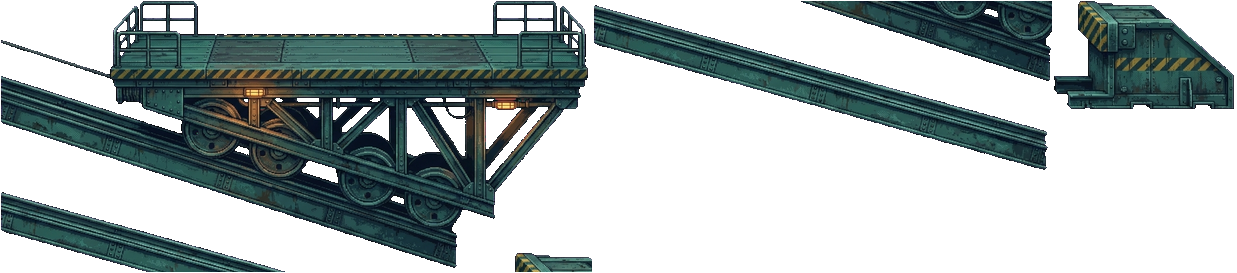
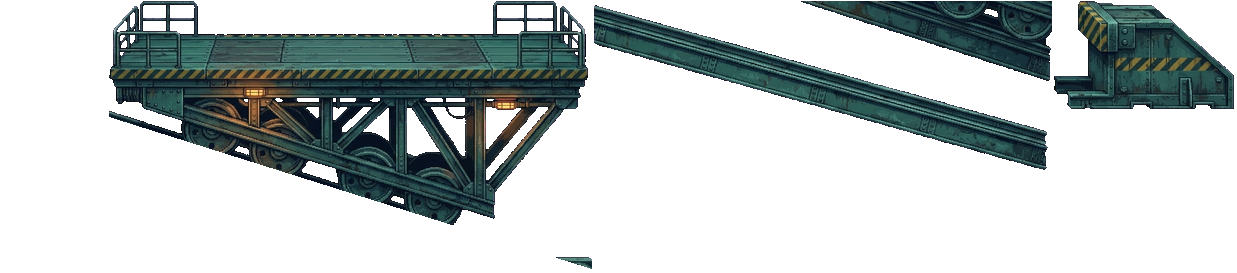
Ур.9 лаборатория: тележка наклонного лифта стоит на рельсе (свой рельс и трос вырезаны), рельс от упора до упора на опорах; фоны зон сменяются шторкой без двоения; станина колеса; колонна у шахты; камера по опоре, меньше пустоты под полом; второй рычаг в кадре; лазеры зелёные (v499)

diff --git a/js/level9labmap.js b/js/level9labmap.js
@@ -72,7 +72,7 @@
         { x: 16500, y: DY - 270, line: 'Реактор, Валера! Сердце моей империи. Дёрнете рычаги — и дверь откроется. Если доживёте.' }],
       covers: [{ x: 1300, y: 330, kind: 'crates' }, { x: 1610, y: 330, kind: 'barrier' }, { x: 3562, y: 330, kind: 'crates' }, { x: 4130, y: 330, kind: 'barrier' }, { x: 5640, y: LIFT_TOP, kind: 'crates' },
         { x: 6910, y: 330, kind: 'crates' }, { x: 8300, y: 330, kind: 'barrier' }, { x: 11000, y: 330, kind: 'crates' }, { x: 11720, y: 330, kind: 'barrier' }, { x: 15960, y: DY, kind: 'crates' }, { x: 17280, y: DY, kind: 'barrier' }],
-      props: [{ x: 820, y: 330, kind: 'console' }, { x: 1600, y: 330, kind: 'tube' }, { x: 2000, y: 330, kind: 'waste' }, { x: 3760, y: 330, kind: 'gas' }, { x: 3950, y: 330, kind: 'tube' }, { x: 5200, y: LIFT_TOP, kind: 'console' }, { x: 5950, y: LIFT_TOP, kind: 'waste' },
+      props: [{ x: 820, y: 330, kind: 'console' }, { x: 1470, y: 330, kind: 'console' }, { x: 2000, y: 330, kind: 'waste' }, { x: 3760, y: 330, kind: 'gas' }, { x: 3950, y: 330, kind: 'waste' }, { x: 5200, y: LIFT_TOP, kind: 'console' }, { x: 5950, y: LIFT_TOP, kind: 'waste' },
         { x: 6930, y: LIFT_TOP, kind: 'gas' }, { x: 7860, y: 330, kind: 'gas' }, { x: 10700, y: 330, kind: 'waste' }, { x: 16580, y: DY, kind: 'console' }, { x: 17700, y: DY, kind: 'gas' }],
       riders: [], acid: [], drops: [],
       traps: {     // ловушки (level9traps.js) — по зонам: в каждой своё
@@ -234,19 +234,21 @@
       c.fillStyle = 'rgba(2,6,10,0.22)'; c.fillRect(0, 0, 640, 360);
       // фоны зон: шахта с ярусами у подъёмника, наклонный тоннель, зал реактора — плавно сменяют общий план; по вертикали свой параллакс
       const ramp = (v, a0, a1) => clamp((v - a0) / (a1 - a0), 0, 1), mid = cx + 320;
-      const wA = ramp(mid, 4300, 4700) * (1 - ramp(mid, 6700, 7100)), wB = ramp(mid, 12200, 12700) * (1 - ramp(mid, 15500, 15900)), wC = ramp(mid, 15500, 15900);
-      const zoneBg = (n, wgt, kx, yy) => { const im = L9.img[n], d = PX()[n]; if (!im || !d || wgt <= 0) return; const h = d[1], w = d[0], y = clamp(yy, 360 - h, 0);
-        c.globalAlpha = wgt; for (let x = -((cx * kx % w) + w) % w; x < 640; x += w) c.drawImage(im, Math.floor(x), Math.round(y), Math.ceil(w) + 1, h); c.globalAlpha = 1; };
-      zoneBg('bgA', wA, 0.18, -(cy + 420) * 0.5); zoneBg('bgB', wB, 0.16, -(cy - 100) * 0.2); zoneBg('bgC', wC, 0.14, -(cy - 700) * 0.3);
+      const aI = ramp(mid, 4300, 4700), aO = ramp(mid, 6700, 7100), bI = ramp(mid, 12200, 12700), bO = ramp(mid, 15500, 15900), cI = bO;
+      const wA = aI * (1 - aO), wB = bI * (1 - bO), wC = cI;
+      // фон зоны не просвечивает сквозь соседний, а сменяет его «шторкой»: видимая полоса экрана от 640*(1-вход) до 640*(1-выход), край мягкий (40 px)
+      const zoneBg = (n, wIn, wOut, kx, yy) => { const im = L9.img[n], d = PX()[n]; if (!im || !d || wIn <= wOut) return; const h = d[1], w = d[0], y = clamp(yy, 360 - h, 0);
+        const x0 = 640 * (1 - wIn), x1 = 640 * (1 - wOut), draw = () => { for (let x = -((cx * kx % w) + w) % w; x < 640; x += w) c.drawImage(im, Math.floor(x), Math.round(y), Math.ceil(w) + 1, h); };
+        for (let i = 0; i < 4; i++) { const e = 10 * (4 - i), a = x0 > 0 ? x0 - e : 0, b = x1 < 640 ? x1 + e : 640; if (i < 3 && a <= 0 && b >= 640) continue;
+          c.save(); c.globalAlpha = i < 3 ? 0.25 : 1; c.beginPath(); c.rect(i < 3 ? a : x0, 0, (i < 3 ? b - a : x1 - x0), 360); c.clip(); draw(); c.restore(); } };
+      zoneBg('bgA', aI, aO, 0.18, -(cy + 420) * 0.5); zoneBg('bgB', bI, bO, 0.16, -(cy - 100) * 0.2); zoneBg('bgC', cI, 0, 0.14, -(cy - 700) * 0.3);
       if (wB > 0) {     // наклонный тоннель: средний план — арки крепи вдоль спуска, сдвигаются медленнее игрового плана (объём)
-        const f = 0.6, [aw, ah] = L9.size('part9', 'arch'), ak = 2.2; c.globalAlpha = wB * 0.85;
+        const f = 0.6, [aw, ah] = L9.size('part9', 'arch'), ak = 2.2; c.save(); c.beginPath(); c.rect(640 * (1 - bI), 0, 640 * (bI - bO), 360); c.clip();
         for (let ax = 12000; ax < 16200; ax += 420) { const ay = 330 + (ax - 12440) * 0.3 + 120, sx = (ax - (cx + 320)) * f + 320, sy = (ay - (cy + 180)) * f + 180; if (sx < -aw * ak || sx > 640 + aw * ak) continue; S(c, 'part9', 'arch', sx, sy - ah * ak / 2, ak); }
-        c.globalAlpha = 1; c.fillStyle = 'rgba(2,6,10,' + 0.3 * wB + ')'; c.fillRect(0, 0, 640, 360);
+        c.restore(); c.fillStyle = 'rgba(2,6,10,' + 0.3 * wB + ')'; c.fillRect(0, 0, 640, 360);
       }
       if (wA + wB + wC > 0) { c.fillStyle = 'rgba(2,6,10,' + (0.18 * Math.max(wA, wB, wC)) + ')'; c.fillRect(0, 0, 640, 360); }
-      c.globalAlpha = 1 - 0.85 * Math.max(wB, wC);
-      layer(c, 'px3', 215, 0.6, cx, 300 + (fy - 260) * 0.62);
-      c.globalAlpha = 1;
+      if (bI < 1) { c.save(); c.beginPath(); c.rect(0, 0, 640 * (1 - bI), 360); c.clip(); layer(c, 'px3', 215, 0.6, cx, 300 + (fy - 260) * 0.62); c.restore(); }     // машины общего плана уходят той же шторкой, что входит тоннель
       if (cx > 3500 && cy < -60) { c.globalAlpha = clamp((cx - 3500) / 600, 0, 1) * clamp((-cy - 60) / 220, 0, 1); layer(c, 'px3', 215, 0.6, cx + 300, 300 + (fy - 500 - 260) * 0.62, true); c.globalAlpha = 1; }     // у подъёмника второй ряд машин на уровне верхнего этажа: проявляется плавно, без скачка
       c.fillStyle = 'rgba(2,6,10,0.12)'; c.fillRect(0, 0, 640, 360);
     };
@@ -337,7 +339,8 @@
     const LK = 1.76, strip = (c, sh, fr, x, y0, y1, k) => { const h = L9.size(sh, fr)[1] * k; if (y1 > y0) S(c, sh, fr, x, (y0 + y1) / 2, k, { sy: (y1 - y0) / h }); };
     M.drawShaft = (c, L) => {
       const cxl = L.x + L.w / 2, wTop = LIFT_TOP - 235, [, wh] = L9.size('lift9', 'winch'), wb = wTop + wh * LK, carTop = L.y - L9D.lift9.carDeck * 0.5 * LK;
-      strip(c, 'lift9', 'post', L.x + 21, wb - 6, 410, LK); strip(c, 'lift9', 'post', L.x + L.w - 14, wb - 6, 410, LK);
+      strip(c, 'lift9', 'post', L.x + 21, wb - 6, 338, LK); strip(c, 'lift9', 'post', L.x + L.w - 14, wb - 6, 338, LK);     // направляющие стоят на полу
+      L9.LAB.drawColumn(c, 5232, LIFT_TOP - 250, 338, 1.1);     // торец шахты: колонна от потолка до пола там, где кончается нижний ярус
       strip(c, 'lift9', 'cable', cxl + 3, wb - 4, carTop + 4, LK);     // тросы — точно над креплениями кабины (у кабины и лебёдки они на 3 px правее центра)
       S(c, 'lift9', 'winch', cxl, wTop + wh * LK / 2, LK);
     };

diff --git a/index.html b/index.html
@@ -45,58 +45,58 @@
   <div class="tb" id="bP" data-a="pause">II</div>
   <div class="tb" id="bE" data-a="start">OK</div>
 </div>
-<script src="js/webp_list.js?v=496"></script>
-<script src="js/engine.js?v=496"></script>
-<script src="js/sprites_data.js?v=496"></script>
-<script src="js/sprites.js?v=496"></script>
-<script src="js/art.js?v=496"></script>
-<script src="js/game.js?v=496"></script>
-<script src="js/cutscene.js?v=496"></script>
-<script src="js/level1.js?v=496"></script>
-<script src="js/level2.js?v=496"></script>
-<script src="js/level3.js?v=496"></script>
-<script src="js/level4.js?v=496"></script>
-<script src="js/level5.js?v=496"></script>
-<script src="js/level5render.js?v=496"></script>
-<script src="js/level5world.js?v=496"></script>
-<script src="js/level5ent.js?v=496"></script>
-<script src="js/level5logic.js?v=496"></script>
-<script src="js/level5extra.js?v=496"></script>
-<script src="js/level5scenes.js?v=496"></script>
-<script src="js/level6.js?v=496"></script>
-<script src="js/level6foes.js?v=496"></script>
-<script src="js/level6run.js?v=496"></script>
-<script src="js/level6boss.js?v=496"></script>
-<script src="js/level6scenes.js?v=496"></script>
-<script src="js/level7.js?v=496"></script>
-<script src="js/level7map.js?v=496"></script>
-<script src="js/level7mg.js?v=496"></script>
-<script src="js/level7run.js?v=496"></script>
-<script src="js/level7scenes.js?v=496"></script>
-<script src="js/l7v4_props.js?v=496"></script>
-<script src="js/level7v4.js?v=496"></script>
-<script src="js/level7v4run.js?v=496"></script>
-<script src="js/level7v4maps.js?v=496"></script>
-<script src="js/level7v4scenes.js?v=496"></script>
-<script src="js/level7v4in.js?v=496"></script>
-<script src="js/l7v4_adm_props.js?v=496"></script>
-<script src="js/level7v4adm.js?v=496"></script>
-<script src="js/l7v4_hall_data.js?v=496"></script>
-<script src="js/level7v4hall.js?v=496"></script>
-<script src="js/l8_data.js?v=496"></script>
-<script src="js/level8.js?v=496"></script>
-<script src="js/level8map.js?v=496"></script>
-<script src="js/level8map2.js?v=496"></script>
-<script src="js/level8boss.js?v=496"></script>
-<script src="js/l9_data.js?v=496"></script>
-<script src="js/level9.js?v=496"></script>
-<script src="js/level9tun.js?v=496"></script>
-<script src="js/level9lab.js?v=496"></script>
-<script src="js/level9foes.js?v=496"></script>
-<script src="js/level9labmap.js?v=496"></script>
-<script src="js/level9traps.js?v=496"></script>
-<script src="js/level9movers.js?v=496"></script>
-<script src="js/level9arrive.js?v=496"></script>
-<script src="js/main.js?v=496"></script>
+<script src="js/webp_list.js?v=499"></script>
+<script src="js/engine.js?v=499"></script>
+<script src="js/sprites_data.js?v=499"></script>
+<script src="js/sprites.js?v=499"></script>
+<script src="js/art.js?v=499"></script>
+<script src="js/game.js?v=499"></script>
+<script src="js/cutscene.js?v=499"></script>
+<script src="js/level1.js?v=499"></script>
+<script src="js/level2.js?v=499"></script>
+<script src="js/level3.js?v=499"></script>
+<script src="js/level4.js?v=499"></script>
+<script src="js/level5.js?v=499"></script>
+<script src="js/level5render.js?v=499"></script>
+<script src="js/level5world.js?v=499"></script>
+<script src="js/level5ent.js?v=499"></script>
+<script src="js/level5logic.js?v=499"></script>
+<script src="js/level5extra.js?v=499"></script>
+<script src="js/level5scenes.js?v=499"></script>
+<script src="js/level6.js?v=499"></script>
+<script src="js/level6foes.js?v=499"></script>
+<script src="js/level6run.js?v=499"></script>
+<script src="js/level6boss.js?v=499"></script>
+<script src="js/level6scenes.js?v=499"></script>
+<script src="js/level7.js?v=499"></script>
+<script src="js/level7map.js?v=499"></script>
+<script src="js/level7mg.js?v=499"></script>
+<script src="js/level7run.js?v=499"></script>
+<script src="js/level7scenes.js?v=499"></script>
+<script src="js/l7v4_props.js?v=499"></script>
+<script src="js/level7v4.js?v=499"></script>
+<script src="js/level7v4run.js?v=499"></script>
+<script src="js/level7v4maps.js?v=499"></script>
+<script src="js/level7v4scenes.js?v=499"></script>
+<script src="js/level7v4in.js?v=499"></script>
+<script src="js/l7v4_adm_props.js?v=499"></script>
+<script src="js/level7v4adm.js?v=499"></script>
+<script src="js/l7v4_hall_data.js?v=499"></script>
+<script src="js/level7v4hall.js?v=499"></script>
+<script src="js/l8_data.js?v=499"></script>
+<script src="js/level8.js?v=499"></script>
+<script src="js/level8map.js?v=499"></script>
+<script src="js/level8map2.js?v=499"></script>
+<script src="js/level8boss.js?v=499"></script>
+<script src="js/l9_data.js?v=499"></script>
+<script src="js/level9.js?v=499"></script>
+<script src="js/level9tun.js?v=499"></script>
+<script src="js/level9lab.js?v=499"></script>
+<script src="js/level9foes.js?v=499"></script>
+<script src="js/level9labmap.js?v=499"></script>
+<script src="js/level9traps.js?v=499"></script>
+<script src="js/level9movers.js?v=499"></script>
+<script src="js/level9arrive.js?v=499"></script>
+<script src="js/main.js?v=499"></script>
 </body>
 </html>

diff --git a/js/level9movers.js b/js/level9movers.js
@@ -52,6 +52,8 @@
     // колесо: спицы (штоки) от ступицы к люлькам, ступица, люльки
     for (const w of V.wheel || []) {
       if (w.x + w.r < x0 || w.x - w.r > x1) continue; const [, rh] = L9.size('trap9a', 'rod');
+      const fl = LAB.floorBelow(M, w.x, w.y + w.r * 0.5, w.y + 2000, false) ?? w.y + w.r + 60;     // станина: А-образная рама из двух штоков от пола к ступице
+      for (const sx of [-120, 120]) { const fx = w.x + sx, dx = w.x - fx, dy = w.y - fl, Ln = Math.hypot(dx, dy); S(c, 'trap9a', 'rod', (fx + w.x) / 2, (fl + w.y) / 2, 0.8, { rot: Math.atan2(dy, dx) - Math.PI / 2, sy: Ln / (rh * 0.8) }); }
       for (const s of V.crads) if (s.wh === w) S(c, 'trap9a', 'rod', (w.x + s.px) / 2, (w.y + s.py) / 2, 0.5, { rot: Math.atan2(s.py - w.y, s.px - w.x) - Math.PI / 2, sy: w.r / (rh * 0.5) });
       S(c, 'lift9b', 'hub', w.x, w.y, 0.75, { rot: (M.mvT || 0) * w.w });
       for (const s of V.crads) if (s.wh === w) { const [, h] = L9.size('lift9b', 'cradle'), k = 0.9; S(c, 'lift9b', 'cradle', s.px, s.py + h * k / 2 - 4, k); }
@@ -65,10 +67,20 @@
   LAB.bigLiftDraw = (c, L, P) => {
     const im = L9.img.inc9, M = P.M, b = M.movers.big; if (!im) return; const f = L9D.inc9.f[L9.fi('inc9', 'car')], fr = L9D.inc9.f[L9.fi('inc9', 'rail')];
     c.imageSmoothingEnabled = true;
-    // рельс: линия через рельс тележки в начале пути
-    const c0 = carBox({ x: b.x, y: b.y0, w: L.w }, f), ry0 = c0.top + INC.railY * c0.FH, rk = c0.FW / (f[2] * 0.5) * 0.5, rw = fr[2] * rk, rh = fr[3] * rk;
-    { const RK = 0.95, [tw] = L9.size('part9', 'rail'), th = Math.atan(INC.slope), len = tw * RK - 1.5, ux = Math.cos(th), uy = Math.sin(th);     // рельс одной линией: бесшовная полоса, повёрнутая под уклон
-      const x0 = c0.x0 - 200, y0 = ry0 - 200 * INC.slope; for (let i = 0; ; i++) { const cx = x0 + (i + 0.5) * len * ux, cy = y0 + (i + 0.5) * len * uy; if (cx - len > b.x + b.dx + L.w + 300) break; if (cx + len < P.cam.x - 40 || cx - len > P.cam.x + 680) continue; S(c, 'part9', 'rail', cx, cy, RK, { rot: th }); } }
+    // рельс: одна линия, совпадающая с рельсом под колёсами тележки (в кадре тележки: верх рельса y = 153 + 0.315*(x-12), толщина 96 — в пикселях исходника 1182 px)
+    const c0 = carBox({ x: b.x, y: b.y0, w: L.w }, f), s0 = c0.FW / 1182, th = Math.atan(INC.slope), ux = Math.cos(th), uy = Math.sin(th);
+    const ax = c0.x0 + 580 * s0, ay = c0.top + 332 * s0, [tw, tth] = L9.size('part9', 'rail'), RK = 96 * ux * s0 / tth, len = tw * RK - 1.5;
+    const nx = -uy * tth * RK / 2, ny = ux * tth * RK / 2;      // от верха рельса к оси плитки
+    const xa = c0.x0 + 120 * s0, xb = c0.x0 + b.dx + 1150 * s0, yAt = x => ay + (x - ax) * INC.slope;     // рельс только от упора до упора: от левого края тележки наверху до правого внизу
+    // опоры под рельсом через 360 px: стойка колонны от низа рельса до пола (или ниже края экрана)
+    const pim = L9.img.part9, F = L9D.part9.f[L9.fi('part9', 'pillar')], pw = F[2] * 0.5 * 0.62, ph = F[3] * 0.5 * 0.62, sh = 0.56 * ph, bot = P.cam.y + 380;
+    for (let x = Math.ceil(xa / 360) * 360 + 180; pim && x < xb - 60; x += 360) {
+      if (x < P.cam.x - 60 || x > P.cam.x + 700) continue; const y0 = yAt(x) + 96 * s0 - 6, fb = M.solids.reduce((m, r) => x >= r[0] && x < r[0] + r[2] && r[1] > y0 + 4 && (m == null || r[1] < m) ? r[1] : m, null), end = fb != null ? fb : bot;
+      if (end < y0 + 20) continue; c.drawImage(pim, F[0], F[1], F[2], F[3] * 0.2, x - pw / 2, y0, pw, ph * 0.2);
+      for (let y = y0 + ph * 0.2 - 1; y < end; y += sh - 1) { const hh = Math.min(sh, end - y + 1); c.drawImage(pim, F[0], F[1] + F[3] * 0.3, F[2], F[3] * 0.56 * hh / sh, x - pw / 2, y, pw, hh); }
+    }
+    for (let i = 0; ; i++) { const cx = xa + (i + 0.5) * len * ux, cy = yAt(cx - nx) + ny; if (cx - len / 2 * ux > xb) break; if (cx + len < P.cam.x - 40 || cx - len > P.cam.x + 680) continue; S(c, 'part9', 'rail', cx, cy, RK, { rot: th }); }
+    for (const [x, fl] of [[xa, true], [xb, false]]) { const [, sth] = L9.size('inc9', 'stop'), k = 96 * s0 * 1.3 / sth; S(c, 'inc9', 'stop', x, yAt(x) - sth * k / 2 + 12 * s0, k, { flip: fl }); }     // упоры-буферы на концах
     const cb = carBox(L, f); c.drawImage(im, f[0], f[1], f[2], f[3], cb.x0, cb.top, cb.FW, cb.FH);
     c.imageSmoothingEnabled = false;
   };

diff --git a/js/level9traps.js b/js/level9traps.js
@@ -73,7 +73,9 @@
     for (const h of T.hlaser || []) {     // стойки с излучателями, луч поперёк
       const [a, b, fl, lo, hi] = h; if (b < x0 || a > x1) continue; const yy = h.by ?? hlaserY(h, t), [, rh] = L9.size('trap9a', 'rod'), [, bh] = L9.size('trap9a', 'beam');
       for (const px of [a, b]) for (let y = fl; y > fl - hi - 26; y -= rh * 0.35 - 1) S(c, 'trap9a', 'rod', px, y - rh * 0.35 / 2, 0.35);
+      c.filter = 'hue-rotate(115deg) saturate(1.3)';     // лазеры по ТЗ зелёные
       S(c, 'trap9a', 'beam', (a + b) / 2, yy, 0.8, { rot: Math.PI / 2, sy: (b - a - 16) / (bh * 0.8), add: 1, a: 0.8 + Math.sin(t * 40) * 0.15 });
+      c.filter = 'none';
       S(c, 'trap9a', 'emU', a + 6, yy, 0.42, { rot: Math.PI / 2 }); S(c, 'trap9a', 'emU', b - 6, yy, 0.42, { rot: -Math.PI / 2 });
     }
     // пила: желоб тайлом по полу, диск ездит туда-сюда (кадр отражается — зубья «бегут»)
@@ -92,7 +94,7 @@
     for (const [x, fl, top, f] of T.laser || []) {
       if (x < x0 || x > x1) continue; const u = (t + f) % LAS_T, on = u < LAS_ON, warn = !on && u > LAS_T - 0.35, k = 0.55;
       const [, eh] = L9.size('trap9a', 'emU'), eb = fl - eh * k + 6, et = top + eh * k - 6;
-      if (on || warn) { const [, bh] = L9.size('trap9a', 'beam'); S(c, 'trap9a', 'beam', x, (eb + et) / 2, 0.8, { sy: (eb - et) / (bh * 0.8), add: 1, a: on ? 0.75 + Math.sin(t * 40) * 0.2 : ((t * 20 | 0) % 2) * 0.35 }); }
+      if (on || warn) { const [, bh] = L9.size('trap9a', 'beam'); c.filter = 'hue-rotate(115deg) saturate(1.3)'; S(c, 'trap9a', 'beam', x, (eb + et) / 2, 0.8, { sy: (eb - et) / (bh * 0.8), add: 1, a: on ? 0.75 + Math.sin(t * 40) * 0.2 : ((t * 20 | 0) % 2) * 0.35 }); c.filter = 'none'; }
       S(c, 'trap9a', on || warn ? 'emU' : 'emOff', x, fl + 2 - eh * k / 2, k);
       const [rw, rh] = L9.size('trap9a', 'rod'); for (let y = top; y > cy - rh * 0.4; y -= rh * 0.4 - 1) S(c, 'trap9a', 'rod', x, y - rh * 0.4 / 2, 0.4);     // подвес верхнего излучателя
       S(c, 'trap9a', 'emD', x, top + eh * k / 2, k);

diff --git a/js/level9lab.js b/js/level9lab.js
@@ -125,7 +125,7 @@
     },
     camera(dt) {
       const M = P.M, c = P.cam, look = P.dir * 70;
-      const tx = clamp(P.x - 320 + look, M.x0, M.x1 - 640), ty = clamp(P.y - 230, M.y0, M.y1 - 360);
+      const tx = clamp(P.x - 320 + look, M.x0, M.x1 - 640), gy = P.onG || P.climb ? (P.camGY = P.y) : Math.max(P.camGY ?? P.y, P.y), ty = clamp(gy - (Math.abs(gy - 330) < 3 ? 272 : P.x > 16500 && gy > 1200 ? 292 : 230), M.y0, M.y1 - 360);     // по опоре, а не по прыжку; на основном полу ниже — меньше пустоты под ним
       c.x += (tx - c.x) * Math.min(1, dt * 4); c.y += (ty - c.y) * Math.min(1, dt * 4.5);
       if (M.camLock) { const k = M.camLock(P); if (k) { c.x = clamp(c.x, k[0], k[1] - 640); } }
     },
@@ -294,6 +294,12 @@
       }
     }
     c.imageSmoothingEnabled = false;
+  };
+  LAB.drawColumn = (c, x, y0, y1, k = 1) => {     // отдельная колонна во всю высоту (капитель сверху, ствол повторяется, база на полу)
+    const im = L9.img.part9; if (!im) return; const F = L9D.part9.f[L9.fi('part9', 'pillar')], w = F[2] * 0.5 * k, h = F[3] * 0.5 * k, sh = 0.56 * h; c.imageSmoothingEnabled = true;
+    c.drawImage(im, F[0], F[1], F[2], F[3] * 0.2, x - w / 2, y0, w, h * 0.2); const stop = y1 - h * 0.1;
+    for (let y = y0 + h * 0.2 - 1; y < stop; y += sh - 1) { const hh = Math.min(sh, stop - y + 1); c.drawImage(im, F[0], F[1] + F[3] * 0.3, F[2], F[3] * 0.56 * hh / sh, x - w / 2, y, w, hh); }
+    c.drawImage(im, F[0], F[1] + F[3] * 0.9, F[2], F[3] * 0.1, x - w / 2, stop, w, h * 0.1); c.imageSmoothingEnabled = false;
   };
   LAB.cwBuild = (x, y, n, lad) => {
     const g = L9D.cw9.geo, W = g.w, parts = [['endL', x]], ls = [].concat(lad ?? []), lads = []; let cx = x + W.endL;

diff --git a/js/engine.js b/js/engine.js
@@ -1,7 +1,7 @@
 'use strict';
 // ============ ДВИЖОК: экран, ввод, звук, утилиты, частицы, текст ============
 const W = 640, H = 360;
-const G = { W, H, t: 0, dt: 0, debug: false, VER: '496' };
+const G = { W, H, t: 0, dt: 0, debug: false, VER: '499' };
 window.G = G;
 
 const canvas = document.getElementById('game');

diff --git a/tools/build_l9.py b/tools/build_l9.py
@@ -503,6 +503,10 @@ for _n, _src, _h in [('bgA', 'l9bgA_1.jpg', 620), ('bgB', 'l9bgB_1.jpg', 520), (
 if have('l9inc_0.jpg'):      # наклонный грузовой лифт: тележка (настил горизонтальный, колёса на уклоне), рельс, упор
     B = [(10, 24, 1200, 574), (10, 406, 933, 752), (989, 528, 1367, 762)]
     fr = [trim(rgba_m('l9inc_0.jpg', b)) for b in B]
+    _c = rgba_m('l9inc_0.jpg', B[0]); _al = np.asarray(_c)[..., 3] > 0; _ys, _xs = np.where(_al); _ox, _oy = _xs.min(), _ys.min()
+    _a = np.array(fr[0]); _a[:, :max(0, 235 - B[0][0] - _ox), 3] = 0; _H, _W = _a.shape[:2]; _yy, _xx = np.mgrid[0:_H, 0:_W]; _a[_yy > 153 + 0.315 * (_xx - 12) + 14, 3] = 0
+    fr[0] = Image.fromarray(_a)      # у тележки трос, обрубок рельса слева и свой рельс под колёсами — убираем (рельс рисуется отдельно, одной линией)
+    print('inc9 car origin', B[0][0] + _ox, B[0][1] + _oy, fr[0].size)
     pack('inc9', fr, 0.5, anchor='mid', names=['car', 'rail', 'stop'])
 
 if have('l9part_0.jpg'):     # рельс (бесшовный по горизонтали), рычаг на тумбе (выкл/вкл), колонна под пол (капитель + ствол), арка тоннеля, стенка чана
